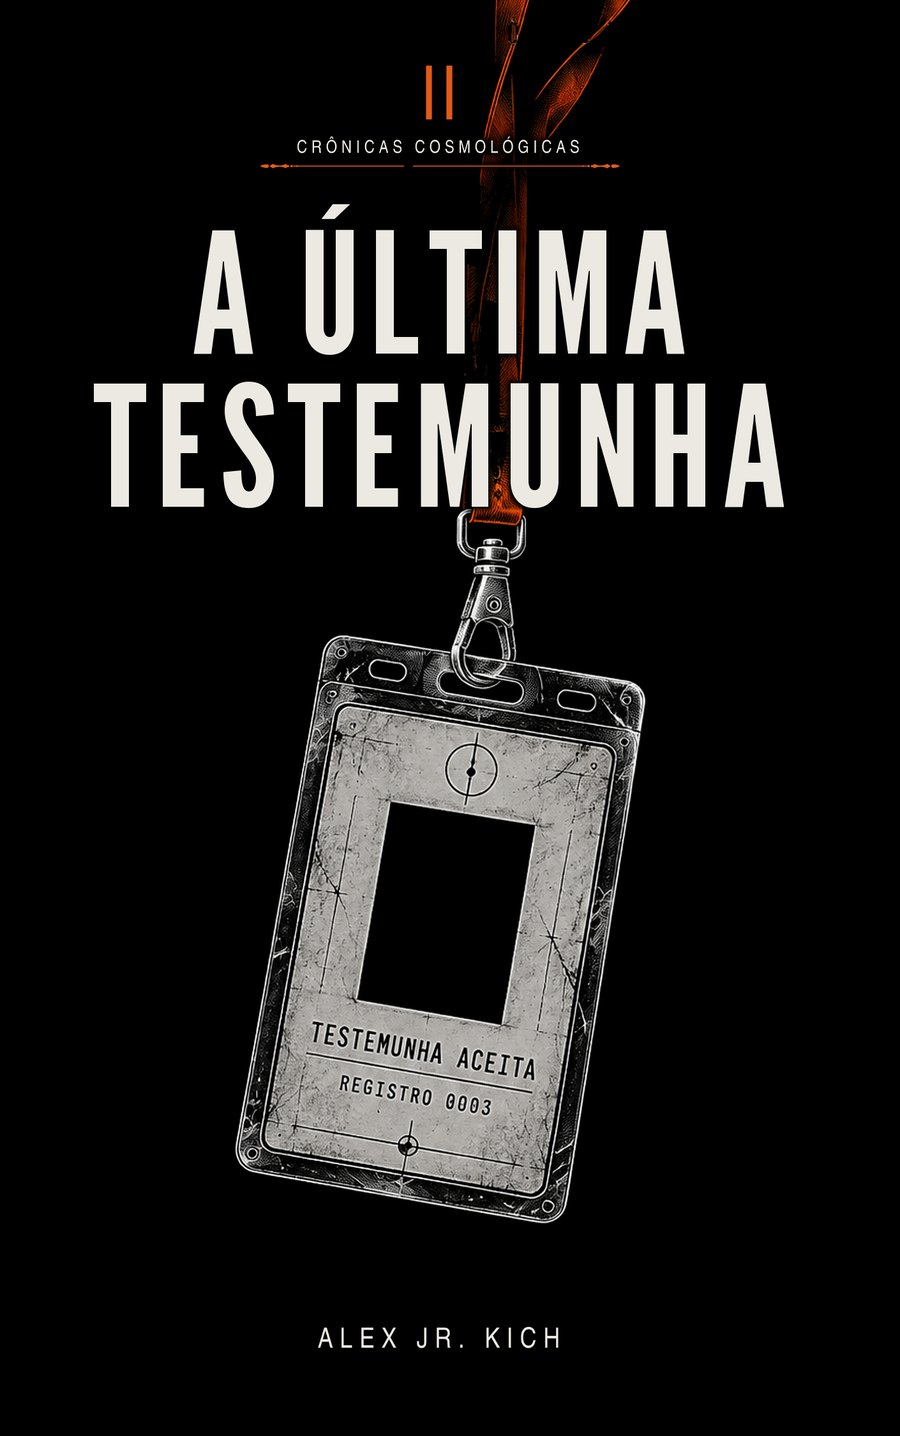
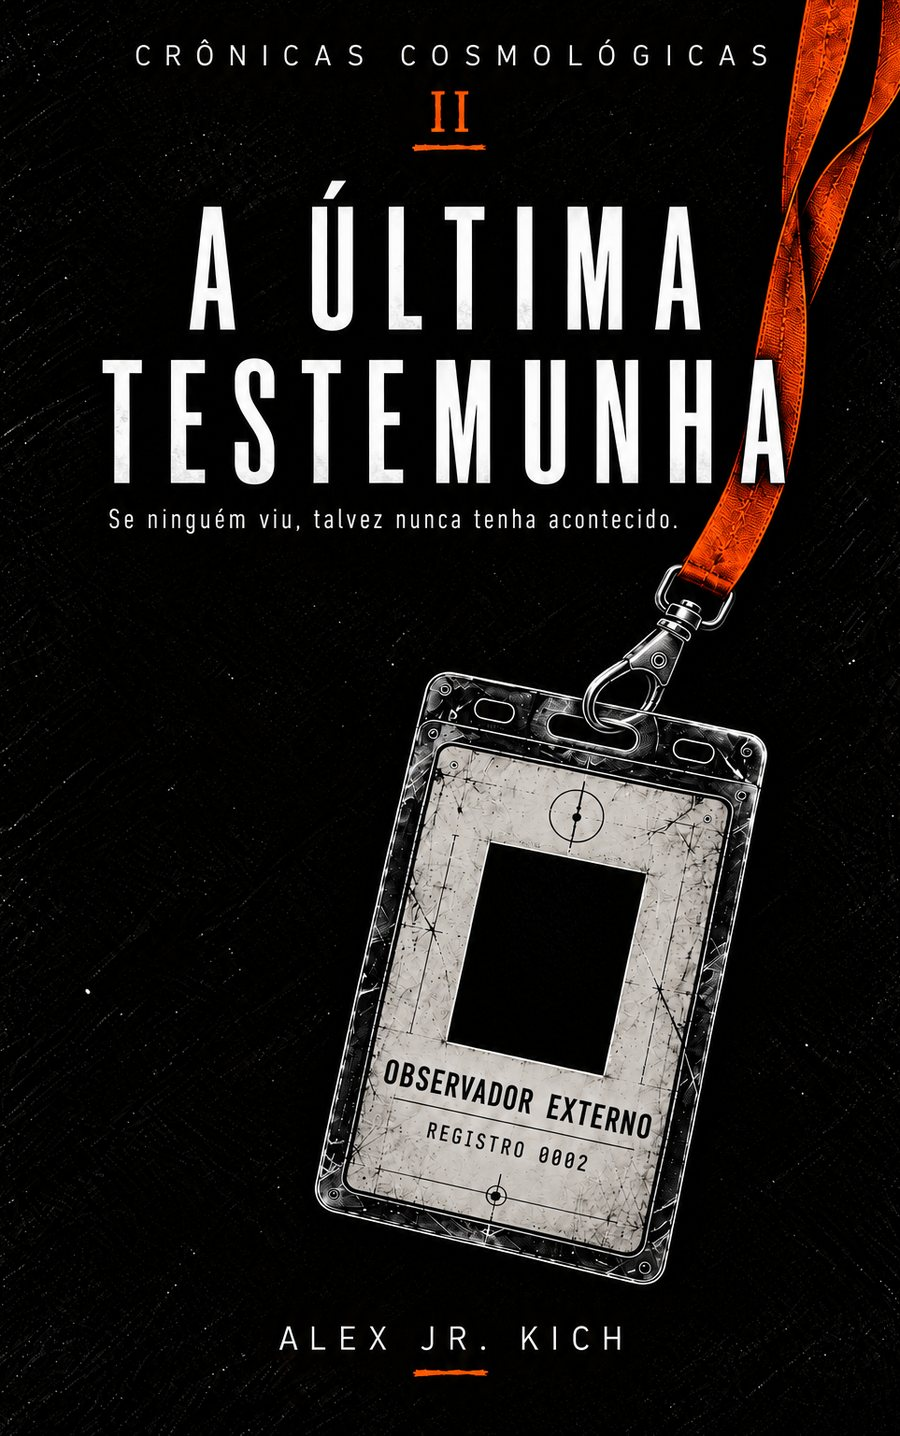
Cortesia PT com os quatro ajustes, cortesia EN preparada, capas do livro II

diff --git a/en/chronicles/index.html b/en/chronicles/index.html
@@ -78,7 +78,7 @@
 
         <section class="books-future" id="chronicles">
           <span class="kicker">Cosmological Chronicles · I–X</span>
-          <div class="books-grid books-grid--covers" style="margin-top:16px"><a class="book-card book-card--cover" href="/en/chronicles/os-deuses-nao-tem-filhos/"><img src="/livros/os-deuses-nao-tem-filhos-en.jpg" alt="Cover of THE GODS HAVE NO CHILDREN" loading="lazy" /><span class="mono">I · In development</span><h3>THE GODS HAVE NO CHILDREN</h3><p>Creating a life gives no one the right to own it.</p><span class="book-card__more mono">Synopsis and details →</span></a><a class="book-card book-card--cover" href="/en/chronicles/a-ultima-testemunha/"><img src="/livros/a-ultima-testemunha.jpg" alt="Cover of THE LAST WITNESS" loading="lazy" /><span class="mono">II · In development</span><h3>THE LAST WITNESS</h3><p>Some things only happen when someone is watching.</p><span class="book-card__more mono">Synopsis and details →</span></a><a class="book-card book-card--cover" href="/en/chronicles/amanha-nao-existe/"><img src="/livros/amanha-nao-existe.jpg" alt="Cover of TOMORROW DOES NOT EXIST" loading="lazy" /><span class="mono">III · In development</span><h3>TOMORROW DOES NOT EXIST</h3><p>Receiving the answer before the question does not make the choice any easier.</p><span class="book-card__more mono">Synopsis and details →</span></a><a class="book-card book-card--cover" href="/en/chronicles/o-universo-nao-responde/"><img src="/livros/o-universo-nao-responde.jpg" alt="Cover of THE UNIVERSE DOES NOT ANSWER" loading="lazy" /><span class="mono">IV · In development</span><h3>THE UNIVERSE DOES NOT ANSWER</h3><p>Perhaps silence is only an answer we have not yet learned to hear.</p><span class="book-card__more mono">Synopsis and details →</span></a><a class="book-card book-card--cover" href="/en/chronicles/o-arquivo-dos-mortos/"><img src="/livros/o-arquivo-dos-mortos.jpg" alt="Cover of THE ARCHIVE OF THE DEAD" loading="lazy" /><span class="mono">V · In development</span><h3>THE ARCHIVE OF THE DEAD</h3><p>Keeping everything about someone does not bring them back.</p><span class="book-card__more mono">Synopsis and details →</span></a><a class="book-card book-card--cover" href="/en/chronicles/antes-de-nascermos/"><img src="/livros/antes-de-nascermos-en.jpg" alt="Cover of BEFORE WE ARE BORN" loading="lazy" /><span class="mono">VI · In development</span><h3>BEFORE WE ARE BORN</h3><p>Some children remember a place where they have never been.</p><span class="book-card__more mono">Synopsis and details →</span></a><a class="book-card book-card--cover" href="/en/chronicles/o-ceu-esta-errado/"><img src="/livros/o-ceu-esta-errado.jpg" alt="Cover of THE SKY IS WRONG" loading="lazy" /><span class="mono">VII · In development</span><h3>THE SKY IS WRONG</h3><p>First the stars disappear. Then the people. The worst part is when no one notices they are missing.</p><span class="book-card__more mono">Synopsis and details →</span></a><a class="book-card book-card--cover" href="/en/chronicles/o-retangulo-negro/"><img src="/livros/o-retangulo-negro.jpg" alt="Cover of THE BLACK RECTANGLE" loading="lazy" /><span class="mono">VIII · In development</span><h3>THE BLACK RECTANGLE</h3><p>Not everything that vanishes was lost.</p><span class="book-card__more mono">Synopsis and details →</span></a><a class="book-card book-card--cover" href="/en/chronicles/nao-tem-a-palavra/"><img src="/livros/nao-tem-a-palavra.jpg" alt="Cover of THERE IS NO WORD" loading="lazy" /><span class="mono">IX · In development</span><h3>THERE IS NO WORD</h3><p>Some things disappear when they stop having a name.</p><span class="book-card__more mono">Synopsis and details →</span></a><a class="book-card book-card--cover" href="/en/chronicles/o-ultimo-sinal/"><img src="/livros/o-ultimo-sinal.jpg" alt="Cover of THE LAST SIGNAL" loading="lazy" /><span class="mono">X · In development</span><h3>THE LAST SIGNAL</h3><p>If one of us arrives first, wait for the other.</p><span class="book-card__more mono">Synopsis and details →</span></a></div>
+          <div class="books-grid books-grid--covers" style="margin-top:16px"><a class="book-card book-card--cover" href="/en/chronicles/os-deuses-nao-tem-filhos/"><img src="/livros/os-deuses-nao-tem-filhos-en.jpg" alt="Cover of THE GODS HAVE NO CHILDREN" loading="lazy" /><span class="mono">I · In development</span><h3>THE GODS HAVE NO CHILDREN</h3><p>Creating a life gives no one the right to own it.</p><span class="book-card__more mono">Synopsis and details →</span></a><a class="book-card book-card--cover" href="/en/chronicles/a-ultima-testemunha/"><img src="/livros/a-ultima-testemunha-en.jpg" alt="Cover of THE LAST WITNESS" loading="lazy" /><span class="mono">II · In development</span><h3>THE LAST WITNESS</h3><p>Some things only happen when someone is watching.</p><span class="book-card__more mono">Synopsis and details →</span></a><a class="book-card book-card--cover" href="/en/chronicles/amanha-nao-existe/"><img src="/livros/amanha-nao-existe.jpg" alt="Cover of TOMORROW DOES NOT EXIST" loading="lazy" /><span class="mono">III · In development</span><h3>TOMORROW DOES NOT EXIST</h3><p>Receiving the answer before the question does not make the choice any easier.</p><span class="book-card__more mono">Synopsis and details →</span></a><a class="book-card book-card--cover" href="/en/chronicles/o-universo-nao-responde/"><img src="/livros/o-universo-nao-responde.jpg" alt="Cover of THE UNIVERSE DOES NOT ANSWER" loading="lazy" /><span class="mono">IV · In development</span><h3>THE UNIVERSE DOES NOT ANSWER</h3><p>Perhaps silence is only an answer we have not yet learned to hear.</p><span class="book-card__more mono">Synopsis and details →</span></a><a class="book-card book-card--cover" href="/en/chronicles/o-arquivo-dos-mortos/"><img src="/livros/o-arquivo-dos-mortos.jpg" alt="Cover of THE ARCHIVE OF THE DEAD" loading="lazy" /><span class="mono">V · In development</span><h3>THE ARCHIVE OF THE DEAD</h3><p>Keeping everything about someone does not bring them back.</p><span class="book-card__more mono">Synopsis and details →</span></a><a class="book-card book-card--cover" href="/en/chronicles/antes-de-nascermos/"><img src="/livros/antes-de-nascermos-en.jpg" alt="Cover of BEFORE WE ARE BORN" loading="lazy" /><span class="mono">VI · In development</span><h3>BEFORE WE ARE BORN</h3><p>Some children remember a place where they have never been.</p><span class="book-card__more mono">Synopsis and details →</span></a><a class="book-card book-card--cover" href="/en/chronicles/o-ceu-esta-errado/"><img src="/livros/o-ceu-esta-errado.jpg" alt="Cover of THE SKY IS WRONG" loading="lazy" /><span class="mono">VII · In development</span><h3>THE SKY IS WRONG</h3><p>First the stars disappear. Then the people. The worst part is when no one notices they are missing.</p><span class="book-card__more mono">Synopsis and details →</span></a><a class="book-card book-card--cover" href="/en/chronicles/o-retangulo-negro/"><img src="/livros/o-retangulo-negro.jpg" alt="Cover of THE BLACK RECTANGLE" loading="lazy" /><span class="mono">VIII · In development</span><h3>THE BLACK RECTANGLE</h3><p>Not everything that vanishes was lost.</p><span class="book-card__more mono">Synopsis and details →</span></a><a class="book-card book-card--cover" href="/en/chronicles/nao-tem-a-palavra/"><img src="/livros/nao-tem-a-palavra.jpg" alt="Cover of THERE IS NO WORD" loading="lazy" /><span class="mono">IX · In development</span><h3>THERE IS NO WORD</h3><p>Some things disappear when they stop having a name.</p><span class="book-card__more mono">Synopsis and details →</span></a><a class="book-card book-card--cover" href="/en/chronicles/o-ultimo-sinal/"><img src="/livros/o-ultimo-sinal.jpg" alt="Cover of THE LAST SIGNAL" loading="lazy" /><span class="mono">X · In development</span><h3>THE LAST SIGNAL</h3><p>If one of us arrives first, wait for the other.</p><span class="book-card__more mono">Synopsis and details →</span></a></div>
         </section>
       </div>
     </section></main>

diff --git a/cortesia/55okhxeexdf9m1/index.html b/cortesia/55okhxeexdf9m1/index.html
@@ -4,13 +4,13 @@
   <meta charset="UTF-8" />
   <meta name="viewport" content="width=device-width, initial-scale=1.0" />
   <title>Cortesia · SINAL/RUÍDO</title>
-  <meta name="description" content="Página privada de cortesia do SINAL/RUÍDO." />
+  <meta name="description" content="Uma cópia de cortesia de SINAL/RUÍDO, de Alex Jr. Kich, oferecida pelo autor." />
   <meta name="robots" content="noindex,nofollow,noarchive" />
   <meta name="theme-color" content="#0B0E14" />
   <link rel="icon" href="/favicon/favicon.svg" type="image/svg+xml" />
   <link rel="canonical" href="https://sinalruido.com.br/cortesia/55okhxeexdf9m1/" />
   <meta property="og:title" content="Cortesia · SINAL/RUÍDO" />
-  <meta property="og:description" content="Página privada de cortesia do SINAL/RUÍDO." />
+  <meta property="og:description" content="Uma cópia de cortesia de SINAL/RUÍDO, de Alex Jr. Kich, oferecida pelo autor." />
   <meta property="og:type" content="website" />
   <meta property="og:url" content="https://sinalruido.com.br/cortesia/55okhxeexdf9m1/" />
   <meta property="og:site_name" content="SINAL/RUÍDO" />
@@ -66,7 +66,7 @@
     <section class="section container--narrow courtesy">
       <span class="kicker">Cortesia do SINAL/RUÍDO</span>
       <h1 style="margin-top:12px">Este exemplar é seu.</h1>
-      <p style="margin-top:8px;color:var(--muted);max-width:60ch">Você recebeu este link porque alguém quis que você lesse <strong>SINAL/RUÍDO</strong>. Baixe o ebook abaixo, sem custo. Esta página não é pública: ela não aparece no menu nem nas buscas.</p>
+      <p style="margin-top:8px;color:var(--muted);max-width:60ch">Você recebeu este link porque alguém quis que você conhecesse <strong>SINAL/RUÍDO</strong>. Esta é uma cópia de cortesia, oferecida para você ler e avaliar o projeto. Baixe o ebook abaixo, sem custo. Esta página não é pública: ela não aparece no menu nem nas buscas.</p>
 
       <div class="courtesy__card">
         <img src="/livro/capa.jpg" alt="Capa de SINAL/RUÍDO" width="300" height="432" />
@@ -75,6 +75,7 @@
           <h2>SINAL/RUÍDO</h2>
           <p class="mono" style="color:var(--signal)">Alex Jr. Kich</p>
           <a class="btn btn--primary" href="/cortesia/55okhxeexdf9m1/SINAL_RUIDO_cortesia.epub" download="SINAL_RUIDO_cortesia.epub" rel="noopener">Baixar EPUB</a>
+          <p class="mono" style="margin-top:14px;color:var(--muted);max-width:44ch">Cópia de cortesia para leitura e avaliação. Todos os direitos reservados: o arquivo não deve ser republicado nem redistribuído.</p>
         </div>
       </div>
 
@@ -87,7 +88,10 @@
         </ul>
       </section>
 
-      <p class="mono" style="margin-top:28px;color:var(--muted)">Gostou? Conheça <a href="/livro/">a página do livro</a>. Por favor, não divulgue este link publicamente.</p>
+      <section class="courtesy__help">
+        <span class="kicker">Ajude a divulgar</span>
+        <p style="margin-top:8px;color:var(--muted);max-width:60ch">Se a leitura valer a pena, você pode ajudar de outras formas: comente ou resenhe o livro, indique <a href="/livro/">a página do livro</a> e siga <a href="https://www.instagram.com/sinal_ruido/" target="_blank" rel="noopener">@sinal_ruido</a> no Instagram. Para proteger os direitos do autor, pedimos apenas que este link e o arquivo não sejam divulgados publicamente.</p>
+      </section>
     </section></main>
 
   <footer class="site-footer">

diff --git a/en/chronicles/a-ultima-testemunha/index.html b/en/chronicles/a-ultima-testemunha/index.html
@@ -18,11 +18,11 @@
   <meta property="og:url" content="https://sinalruido.com.br/en/chronicles/a-ultima-testemunha/" />
   <meta property="og:site_name" content="SINAL/RUÍDO" />
   <meta property="og:locale" content="en_US" />
-  <meta property="og:image" content="https://sinalruido.com.br/livros/a-ultima-testemunha.jpg" />
+  <meta property="og:image" content="https://sinalruido.com.br/livros/a-ultima-testemunha-en.jpg" />
   <meta property="og:image:width" content="1200" />
   <meta property="og:image:height" content="630" />
   <meta name="twitter:card" content="summary_large_image" />
-  <meta name="twitter:image" content="https://sinalruido.com.br/livros/a-ultima-testemunha.jpg" />
+  <meta name="twitter:image" content="https://sinalruido.com.br/livros/a-ultima-testemunha-en.jpg" />
   <link rel="preconnect" href="https://fonts.googleapis.com" />
   <link rel="preconnect" href="https://fonts.gstatic.com" crossorigin />
   <link rel="stylesheet" href="https://fonts.googleapis.com/css2?family=Oswald:wght@600;700&display=swap" />
@@ -62,7 +62,7 @@
           <a href="/livros/a-ultima-testemunha/" class="mono" style="color:var(--muted)" hreflang="pt-BR">← Versão em português</a>
         </div>
         <div class="book-sheet__hero">
-          <img class="book-sheet__cover" src="/livros/a-ultima-testemunha.jpg" alt="Cover of THE LAST WITNESS" width="450" height="720" />
+          <img class="book-sheet__cover" src="/livros/a-ultima-testemunha-en.jpg" alt="Cover of THE LAST WITNESS" width="450" height="720" />
           <div>
             <span class="badge" style="border-color:var(--signal);color:var(--signal)">II · In development</span>
             <h1 style="margin-top:12px">THE LAST WITNESS</h1>

diff --git a/INTERNATIONAL-SITE-RECON.md b/INTERNATIONAL-SITE-RECON.md
@@ -690,3 +690,9 @@ A capa de "Antes de Nascermos" parecia apagada: o preto estava levantado (median
 ## V. Capas do livro I (2026-09-25)
 
 Arte nova em PT (`sinal final/LIVROS/1/pt.png`, "Algumas coisas não deveriam nascer.") e EN (`eg.png`, "THE GODS HAVE NO CHILDREN · Some things should never be born.", com "COSMOLOGICAL CHRONICLES"), cortadas 30 px de cada lado como as demais. A EN vai em `public/livros/os-deuses-nao-tem-filhos-en.jpg` (`coverEn`). Livros com capa em inglês no site: I e VI.
+
+## W. Cortesia PT/EN e capas do livro II (2026-09-25)
+
+- **Capas do livro II** (`sinal final/LIVROS/2/pt.png` e `eng.png`): PT "A Última Testemunha" ("Se ninguém viu, talvez nunca tenha acontecido.") e EN "THE LAST WITNESS" ("If no one saw it, maybe it never happened."), com "COSMOLOGICAL CHRONICLES". Livros com capa em inglês: I, II e VI.
+- **Cortesia em português** (`/cortesia/55okhxeexdf9m1/`): os quatro ajustes aplicados (texto de divulgação "Ajude a divulgar"; prévia do link "Uma cópia de cortesia de SINAL/RUÍDO... oferecida pelo autor"; aviso de direitos "todos os direitos reservados: o arquivo não deve ser republicado nem redistribuído"; frase "não divulgue" reescrita em tom cordial, restrita ao link e ao arquivo). Continua `noindex,nofollow,noarchive`, `no-store`, fora do sitemap e da busca. EPUB regenerado do texto final de 25/09.
+- **Cortesia em inglês:** código pronto (`CORTESIA.en`), token próprio `hfrrz5lid8ketj`. A página só é gerada quando existir `public/cortesia/hfrrz5lid8ketj/SIGNAL_NOISE_courtesy.epub` (aguardando a tradução do autor). Textos em inglês de minha autoria, a revisar.
